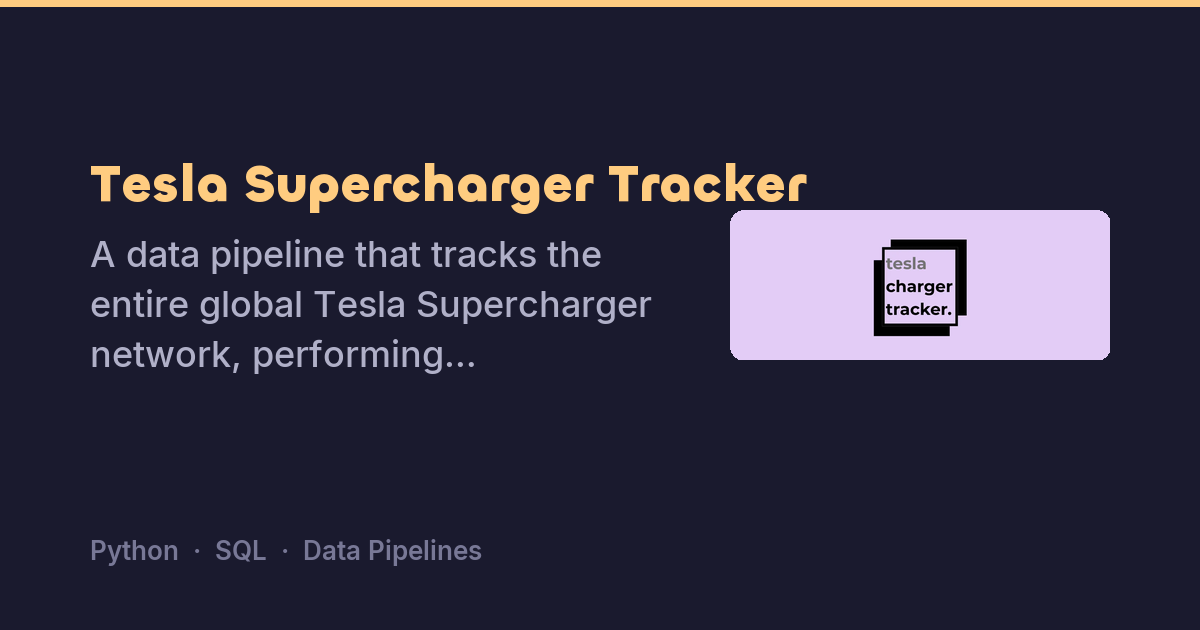
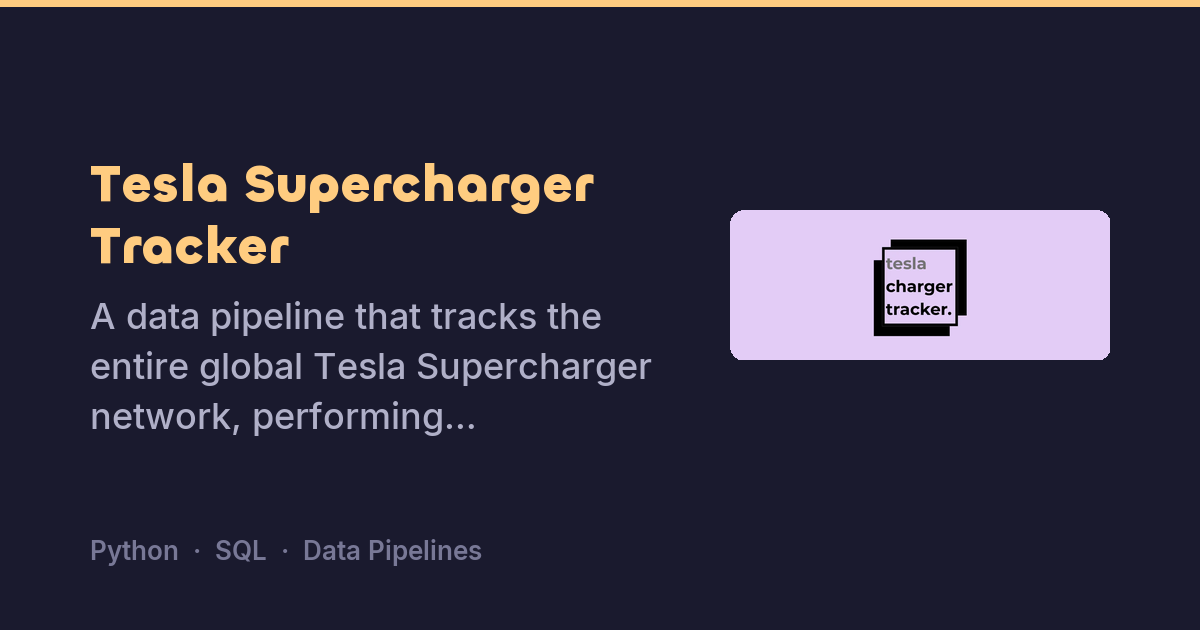
Share cards for unlisted articles + title wrapping in OG generator
generate_og.py now also reads projects/unlisted.json, so unlisted
articles get per-route share cards and prerendered meta stubs (their
whole point is being shared by direct link). Long titles wrap up to
three lines, shrinking to fit rather than ellipsizing away the
ending; summary lines yield space to wrapped titles. tesla-feed's
card picks up the nicer two-line title as a side effect.

Also: quantlab-research retitled ("strategies, and the ways
backtests lie").

Claude-Session: https://claude.ai/code/session_015LG6eeqckYN7sMPV2g64Td

diff --git a/projects/quantlab-analyst/index.html b/projects/quantlab-analyst/index.html
@@ -1,0 +1,33 @@
+<!DOCTYPE html>
+<html lang="en">
+<head>
+    <meta charset="UTF-8">
+    <meta name="viewport" content="width=device-width, initial-scale=1.0">
+    <title>distilling a financial analyst: small open models, frontier accuracy — rohan.jk</title>
+    <meta name="description" content="Fine-tuning small open-source models (Qwen3 8B and 14B, QLoRA on one RTX 4090) into a financial memo system where every number is mechanically verified: a tuned writer, a tuned repair model, and a deterministic gate that together match a frontier model on provable correctness. Every experiment pre-registered, including the failures.">
+    <link rel="canonical" href="https://www.rohanjk.xyz/projects/quantlab-analyst">
+
+    <meta property="og:type" content="article">
+    <meta property="og:url" content="https://www.rohanjk.xyz/projects/quantlab-analyst">
+    <meta property="og:title" content="distilling a financial analyst: small open models, frontier accuracy — rohan.jk">
+    <meta property="og:description" content="Fine-tuning small open-source models (Qwen3 8B and 14B, QLoRA on one RTX 4090) into a financial memo system where every number is mechanically verified: a tuned writer, a tuned repair model, and a deterministic gate that together match a frontier model on provable correctness. Every experiment pre-registered, including the failures.">
+    <meta property="og:site_name" content="rohan.jk">
+    <meta property="og:image" content="https://www.rohanjk.xyz/assets/images/og/quantlab-analyst.png">
+    <meta property="og:image:width" content="1200">
+    <meta property="og:image:height" content="630">
+    <meta property="og:image:alt" content="distilling a financial analyst: small open models, frontier accuracy — rohan.jk">
+
+    <meta name="twitter:card" content="summary_large_image">
+    <meta name="twitter:title" content="distilling a financial analyst: small open models, frontier accuracy — rohan.jk">
+    <meta name="twitter:description" content="Fine-tuning small open-source models (Qwen3 8B and 14B, QLoRA on one RTX 4090) into a financial memo system where every number is mechanically verified: a tuned writer, a tuned repair model, and a deterministic gate that together match a frontier model on provable correctness. Every experiment pre-registered, including the failures.">
+    <meta name="twitter:image" content="https://www.rohanjk.xyz/assets/images/og/quantlab-analyst.png">
+
+    <!-- Humans: boot the SPA at the right route (scrapers stop at the meta above). -->
+    <script>
+        sessionStorage.setItem('spa-redirect', '/projects/quantlab-analyst');
+        location.replace('/');
+    </script>
+    <noscript><meta http-equiv="refresh" content="0; url=/"></noscript>
+</head>
+<body></body>
+</html>

diff --git a/projects/quantlab-research/index.html b/projects/quantlab-research/index.html
@@ -1,0 +1,33 @@
+<!DOCTYPE html>
+<html lang="en">
+<head>
+    <meta charset="UTF-8">
+    <meta name="viewport" content="width=device-width, initial-scale=1.0">
+    <title>quant strategy research: strategies, and the ways backtests lie — rohan.jk</title>
+    <meta name="description" content="The strategy-research arm of a miniature trading firm: a backtesting engine that makes cheating structurally impossible, pairs trading with Kalman-adaptive hedging, factor strategies with survivorship bias measured at +4.6%/yr instead of disclaimed, and an ML layer that lost to its baseline.">
+    <link rel="canonical" href="https://www.rohanjk.xyz/projects/quantlab-research">
+
+    <meta property="og:type" content="article">
+    <meta property="og:url" content="https://www.rohanjk.xyz/projects/quantlab-research">
+    <meta property="og:title" content="quant strategy research: strategies, and the ways backtests lie — rohan.jk">
+    <meta property="og:description" content="The strategy-research arm of a miniature trading firm: a backtesting engine that makes cheating structurally impossible, pairs trading with Kalman-adaptive hedging, factor strategies with survivorship bias measured at +4.6%/yr instead of disclaimed, and an ML layer that lost to its baseline.">
+    <meta property="og:site_name" content="rohan.jk">
+    <meta property="og:image" content="https://www.rohanjk.xyz/assets/images/og/quantlab-research.png">
+    <meta property="og:image:width" content="1200">
+    <meta property="og:image:height" content="630">
+    <meta property="og:image:alt" content="quant strategy research: strategies, and the ways backtests lie — rohan.jk">
+
+    <meta name="twitter:card" content="summary_large_image">
+    <meta name="twitter:title" content="quant strategy research: strategies, and the ways backtests lie — rohan.jk">
+    <meta name="twitter:description" content="The strategy-research arm of a miniature trading firm: a backtesting engine that makes cheating structurally impossible, pairs trading with Kalman-adaptive hedging, factor strategies with survivorship bias measured at +4.6%/yr instead of disclaimed, and an ML layer that lost to its baseline.">
+    <meta name="twitter:image" content="https://www.rohanjk.xyz/assets/images/og/quantlab-research.png">
+
+    <!-- Humans: boot the SPA at the right route (scrapers stop at the meta above). -->
+    <script>
+        sessionStorage.setItem('spa-redirect', '/projects/quantlab-research');
+        location.replace('/');
+    </script>
+    <noscript><meta http-equiv="refresh" content="0; url=/"></noscript>
+</head>
+<body></body>
+</html>

diff --git a/projects/quantlab-systems/index.html b/projects/quantlab-systems/index.html
@@ -1,0 +1,33 @@
+<!DOCTYPE html>
+<html lang="en">
+<head>
+    <meta charset="UTF-8">
+    <meta name="viewport" content="width=device-width, initial-scale=1.0">
+    <title>building a trading firm&#x27;s machinery: matching engine, risk controls, live execution — rohan.jk</title>
+    <meta name="description" content="The execution arm of a miniature trading firm, built as a reality check on the backtests: a deterministic C++ limit order book at 10M ops/sec, a risk-control gateway no strategy can bypass, and a live paper-trading pipeline that measures how far live results drift from what the backtest promised.">
+    <link rel="canonical" href="https://www.rohanjk.xyz/projects/quantlab-systems">
+
+    <meta property="og:type" content="article">
+    <meta property="og:url" content="https://www.rohanjk.xyz/projects/quantlab-systems">
+    <meta property="og:title" content="building a trading firm&#x27;s machinery: matching engine, risk controls, live execution — rohan.jk">
+    <meta property="og:description" content="The execution arm of a miniature trading firm, built as a reality check on the backtests: a deterministic C++ limit order book at 10M ops/sec, a risk-control gateway no strategy can bypass, and a live paper-trading pipeline that measures how far live results drift from what the backtest promised.">
+    <meta property="og:site_name" content="rohan.jk">
+    <meta property="og:image" content="https://www.rohanjk.xyz/assets/images/og/quantlab-systems.png">
+    <meta property="og:image:width" content="1200">
+    <meta property="og:image:height" content="630">
+    <meta property="og:image:alt" content="building a trading firm&#x27;s machinery: matching engine, risk controls, live execution — rohan.jk">
+
+    <meta name="twitter:card" content="summary_large_image">
+    <meta name="twitter:title" content="building a trading firm&#x27;s machinery: matching engine, risk controls, live execution — rohan.jk">
+    <meta name="twitter:description" content="The execution arm of a miniature trading firm, built as a reality check on the backtests: a deterministic C++ limit order book at 10M ops/sec, a risk-control gateway no strategy can bypass, and a live paper-trading pipeline that measures how far live results drift from what the backtest promised.">
+    <meta name="twitter:image" content="https://www.rohanjk.xyz/assets/images/og/quantlab-systems.png">
+
+    <!-- Humans: boot the SPA at the right route (scrapers stop at the meta above). -->
+    <script>
+        sessionStorage.setItem('spa-redirect', '/projects/quantlab-systems');
+        location.replace('/');
+    </script>
+    <noscript><meta http-equiv="refresh" content="0; url=/"></noscript>
+</head>
+<body></body>
+</html>

diff --git a/tools/generate_og.py b/tools/generate_og.py
@@ -153,13 +153,31 @@ def make_project_card(slug, title, summary, techs, banner_path):
     y = 150
 
     title_font, tsize = fit_title(d, title, text_w, CHILLAX_BOLD)
-    d.text((PAD, y), title, font=title_font, fill=AMBER + (255,))
-    y += tsize + 30
+    if d.textlength(title, font=title_font) > text_w:
+        # Too long even at the floor size: wrap, shrinking further until the
+        # whole title fits in three lines (never ellipsize away the ending).
+        while True:
+            tlines = wrap(d, title, title_font, text_w)
+            if len(tlines) <= 3 or tsize <= 36:
+                break
+            tsize -= 4
+            title_font = font(CHILLAX_BOLD, tsize)
+        if len(tlines) > 3:
+            tlines = tlines[:3]
+            tlines[-1] = tlines[-1].rstrip(" ,;:") + "…"
+    else:
+        tlines = [title]
+    for tline in tlines:
+        d.text((PAD, y), tline, font=title_font, fill=AMBER + (255,))
+        y += tsize + 10
+    y += 20
 
+    # Trade summary lines for title lines so the tags row never collides.
+    max_summary = min(3, 5 - len(tlines))
     sum_font = font(INTER_MEDIUM, 36)
     lines = wrap(d, summary, sum_font, text_w)
-    if len(lines) > 3:
-        lines = lines[:3]
+    if len(lines) > max_summary:
+        lines = lines[:max_summary]
         lines[-1] = lines[-1].rstrip(" ,;:") + "…"
     for line in lines:
         d.text((PAD, y), line, font=sum_font, fill=MUTED + (255,))
@@ -229,6 +247,11 @@ def make_stub(slug, title, summary):
 def main():
     print("Homepage card:", os.path.relpath(make_homepage_card(), ROOT))
     index = json.load(open(os.path.join(ROOT, "projects/index.json")))
+    # Unlisted articles get share cards + meta stubs too — they're shared by
+    # direct link, so link previews matter. They stay out of the grid/sitemap.
+    unlisted_path = os.path.join(ROOT, "projects/unlisted.json")
+    if os.path.exists(unlisted_path):
+        index = index + json.load(open(unlisted_path))
     print(f"\nProjects ({len(index)}):")
     for fname in index:
         slug = fname[:-3] if fname.endswith(".md") else fname

diff --git a/projects/quantlab-research.md b/projects/quantlab-research.md
@@ -1,5 +1,5 @@
 ---
-title: "quant strategy research: the ways backtests lie"
+title: "quant strategy research: strategies, and the ways backtests lie"
 summary: "The strategy-research arm of a miniature trading firm: a backtesting engine that makes cheating structurally impossible, pairs trading with Kalman-adaptive hedging, factor strategies with survivorship bias measured at +4.6%/yr instead of disclaimed, and an ML layer that lost to its baseline."
 image: assets/images/projects/quantlab-research/banner.webp
 technologies:
@@ -87,7 +87,7 @@ These factors were alright, but it wasn't close to the mythical success stories 
 
 The three famous strategies only dug up three unimpressive negatives, with one thread running through all of them. On a survivorship-inflated bull decade, every filter, gate, and clever overlay is just drag. Plain momentum is stubbornly, boringly, and infuriatingly hard to beat. Every spectacular number pulled away the moment I reached for it with a fair test. 
 
-I started this whole project with a small, naive hope that I'd leave with a golden ticket. Maybe I'd find one of those unusual strategies the finance hopefuls talked about, and I'd never have to work a day for the rest of my life.
+I started this whole project with a small, naive hope that I'd leave with a golden ticket. Maybe I'd find one of those unusual strategies those finance hopefuls talked about, and I'd never have to work a day for the rest of my life.
 
 I'm still writing these portfolio articles, so you know how that went.
 